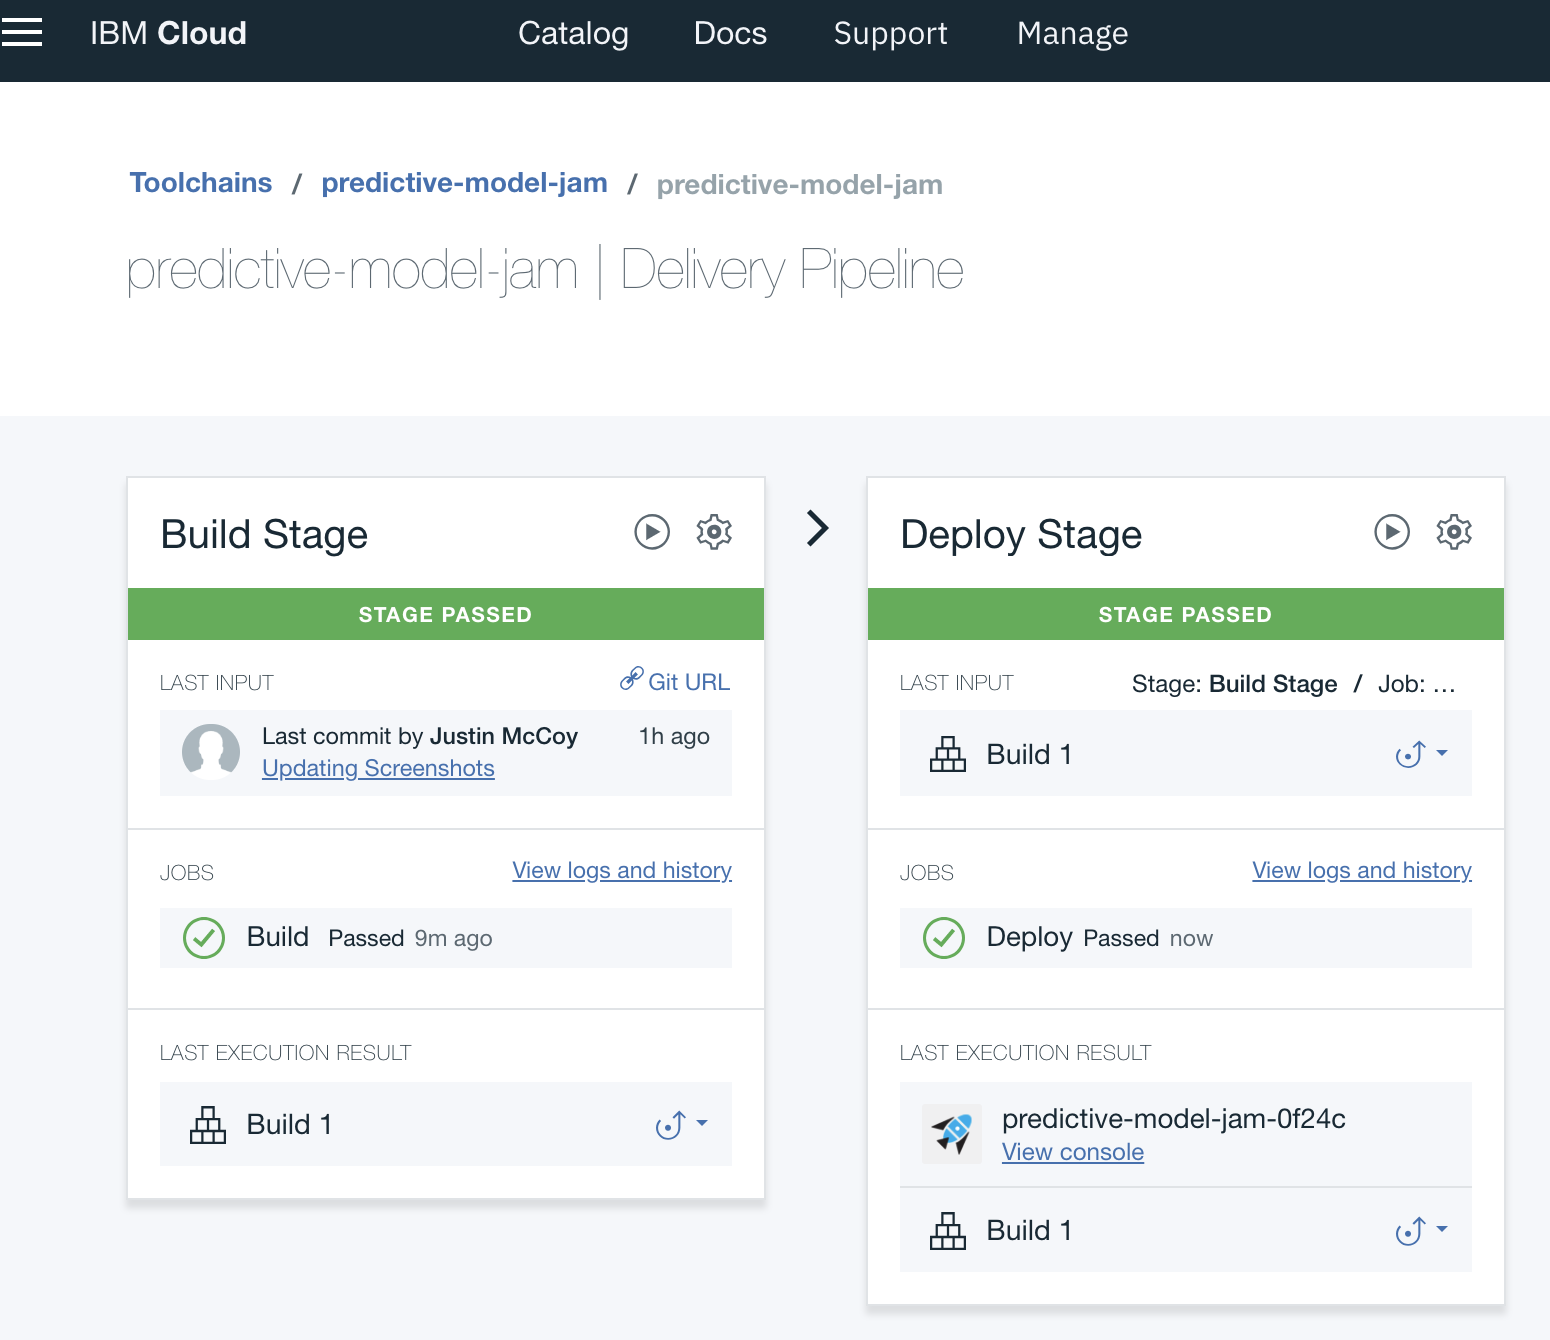
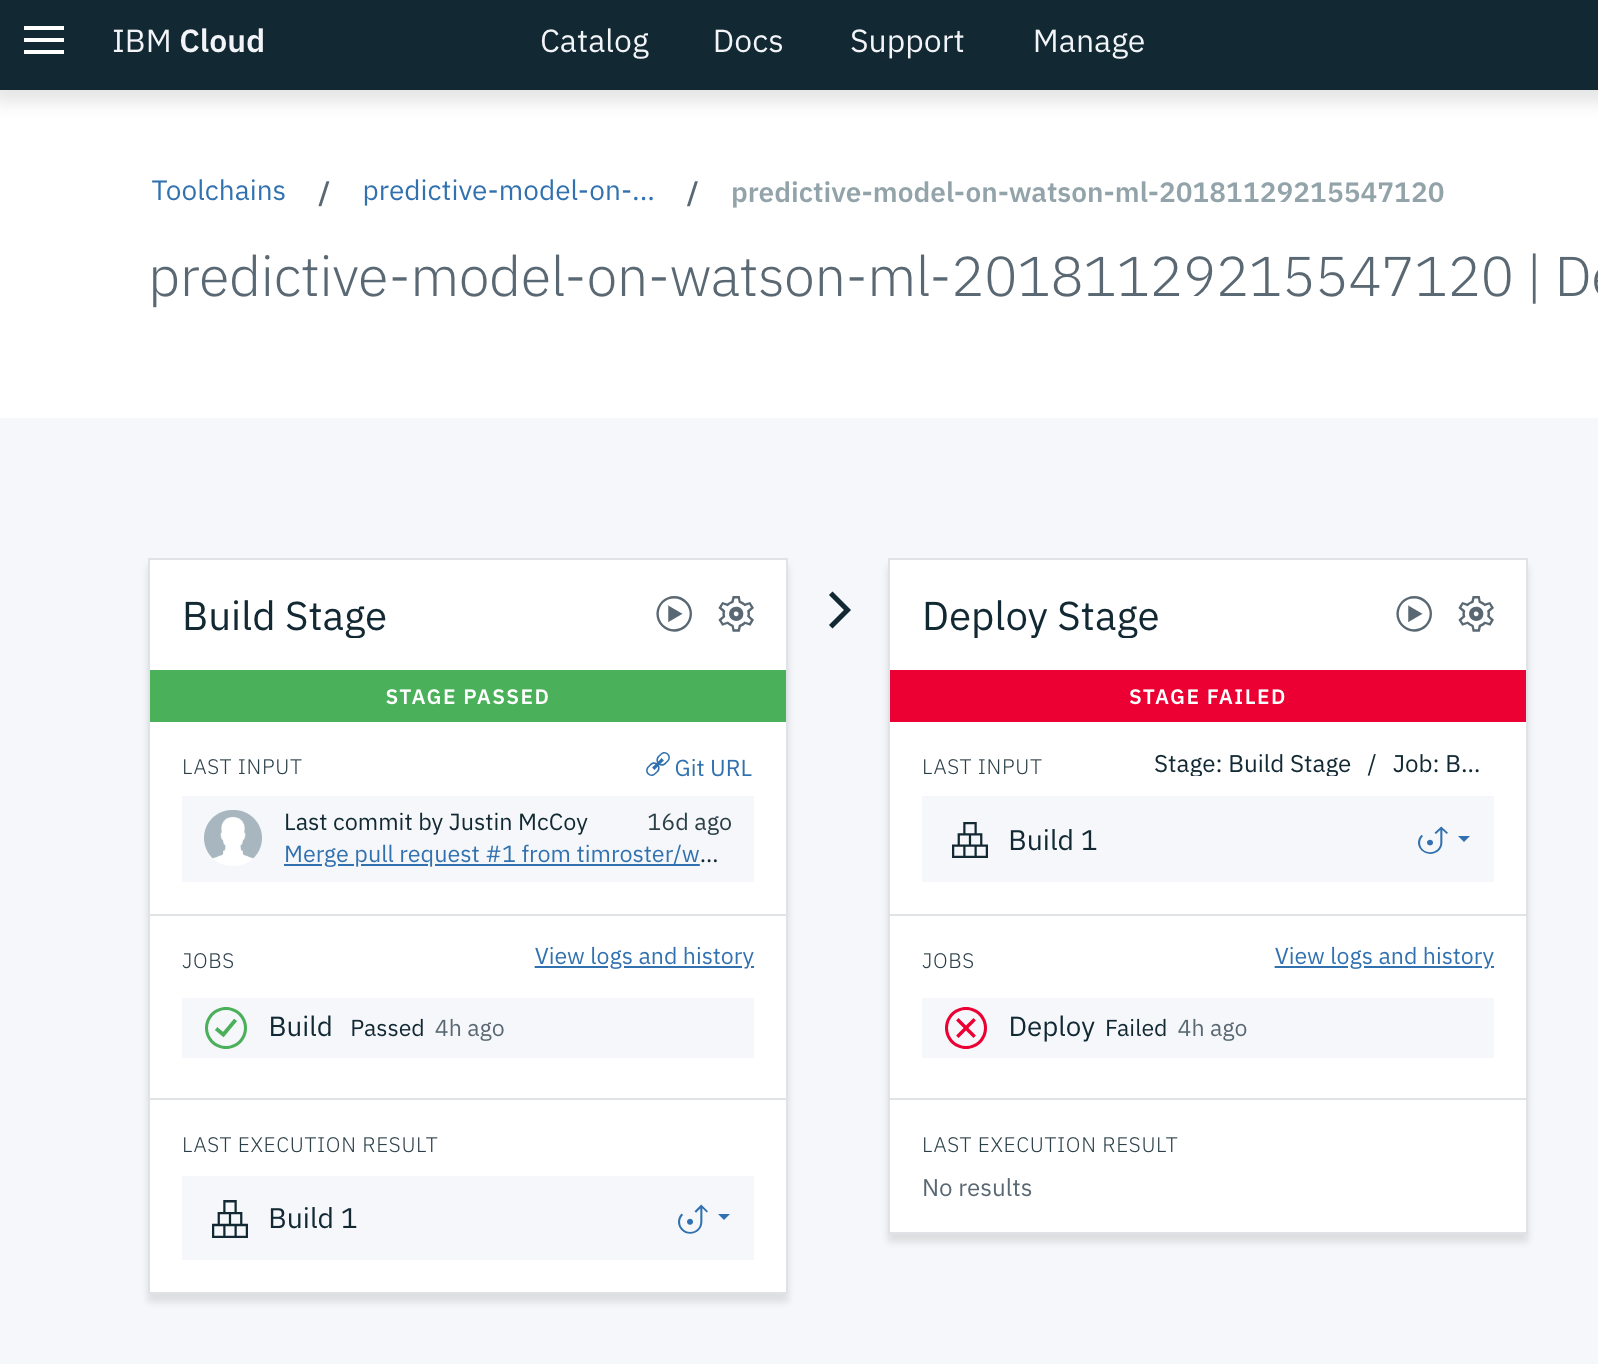
Readme changes

diff --git a/README.md b/README.md
@@ -51,6 +51,8 @@ When the reader has completed this Code Pattern, they will understand how to:
 
 As of 2/5/2018, the Machine Learning service on IBM Cloud is only available in the US South or United Kingdom regions.
 
+Disclaimer: The Watson Studio UI evolves at a rapid pace. It is possible that the screenshots shown in this README won't match your experience exactly. Pull requests welcome!
+
 ## 1. Create an instance of the Watson Studio Service
 Watson Studio is your IDE for Machine Learning and Data Science, combining opensource tools, and libraries into a unified Cloud based platform for discovering and sharing insights. For this lab we're using the Automatic Model Builder simplifying the data preparation, training, and evaluation steps of machine learning. 
 
@@ -239,7 +241,7 @@ Select `Manual` to define the evaluator algorithms, they type of model to train,
   
   1. **Selecting a Label Column** - The Label Column is what we would like to predict. In this usecase we are trying to predict if someone is at risk of heartrate failure or not. Looking at the data from previous steps we know there's a *HEARTRATEFAILURE* column and it's represented by a string value of *Y* or *N* for each sample.  Select `HEARTRATEFAILURE`, as it's what we're trying to predict.
   2. **Selecting Feature Columns** - The Feature Column(s), are what fields in each sample are used to make a prediction. From previous steps we identified several columns in our dataset that represent different *Features* of each sample that might influence if a patient is at risk of heartrate failure. Here the Automatic Model Builder tool will default to selecting all columns, excluding the `Label Column` of `HEARTRATEFAILURE` to use in making a prediction.
-  3. **Selecting Model Type** - The Automatic Model Builder simplifies *Classification* and *Regression* tasks, where *classification* builds a model to predict a discreate class, and *Regression* builds a model to predict a continious value. Since we're trying to predict either *Y* someone is at risk of heartrate failure or *N* someone is not at risk of heartrate failure we're working on a `Binary Classification` task, where the prediction can either be 0 or 1. Based on the `Label Column` selected, the Automatic Model Builder will have already selected `Binary Classification` for use in training.
+  3. **Selecting Model Type** - The Automatic Model Builder simplifies *Classification* and *Regression* tasks, where *classification* builds a model to predict a discrete class, and *Regression* builds a model to predict a continious value. Since we're trying to predict either *Y* someone is at risk of heartrate failure or *N* someone is not at risk of heartrate failure we're working on a `Binary Classification` task, where the prediction can either be 0 or 1. Based on the `Label Column` selected, the Automatic Model Builder will have already selected `Binary Classification` for use in training.
   4. **Validation Split** - Training machine learning models is an iterative process and the data used to train a model should not be used when evaluating the accuracy of a model, as data used in training is already known and has shaped how the model formed. Validation of a models accuracy depends on usage of data the model has never seen before.  This step splits up all of our data setting some asside for training, test, and eventually validation. A common division of this data is usually 60% Training, 20% Test, and 20% validation.  The Automatic Model Builder has already set these defaults.
   5. **Estimators** - The machine learning algorithms used for finding the best fit of `Features` to `Label` are estimators.  These estimators are hardest part of machine learning, and finding the right one depends on the input data and type of problem, regression, classification, clustering, or dimensionality reduction. With the Automatic Model Builder we can select several different *estimators* and compare their accuracy on the problem of predicting heartrate failure. 
   
@@ -319,7 +321,7 @@ Although training is a critical step in the machine learning process, the model 
 
 
 ### 8. Deploy a Node.js test application in Cloud Foundry Runtime
-Until this point in the lab, we've been working as a data scientist and data engineer, gathering data, exploring data, building models, and evaluating models. In this section of the lab we deploy an existing Node.js application that has been developed to call a Machine Learning Model deployed as `Heart Failure Prediction Model Deployment` without having to explicitly specify the Watson Machine Learning credentials in the application.  This 
+Until this point in the lab, we've been working as a data scientist and data engineer, gathering data, exploring data, building models, and evaluating models. In this section of the lab we deploy an existing Node.js application that has been developed to call a Machine Learning Model deployed as `Heart Failure Prediction Model Deployment` without having to explicitly specify the Watson Machine Learning credentials in the application.
 
 1. Click on the `IBM Cloud` button below to open create a new DevOps toolchain, that is configured to download the existing Node.js application from this repo, package it, and deploy it as a new Node.js Cloud Foundry Application in IBM Cloud.
 
@@ -337,7 +339,7 @@ Until this point in the lab, we've been working as a data scientist and data eng
 
   ![](doc/source/images/toolchain.png?raw=true)
 
-4. Wait for the **Deploy Stage** to complete successfully; should take less then 5 minutes.
+4. Wait for the **Deploy Stage** to complete; should take less then 5 minutes. The first time won't be successful. We will configure credentials in the next steps.
 
   ![](doc/source/images/deploy-stage.png?raw=true)
 
